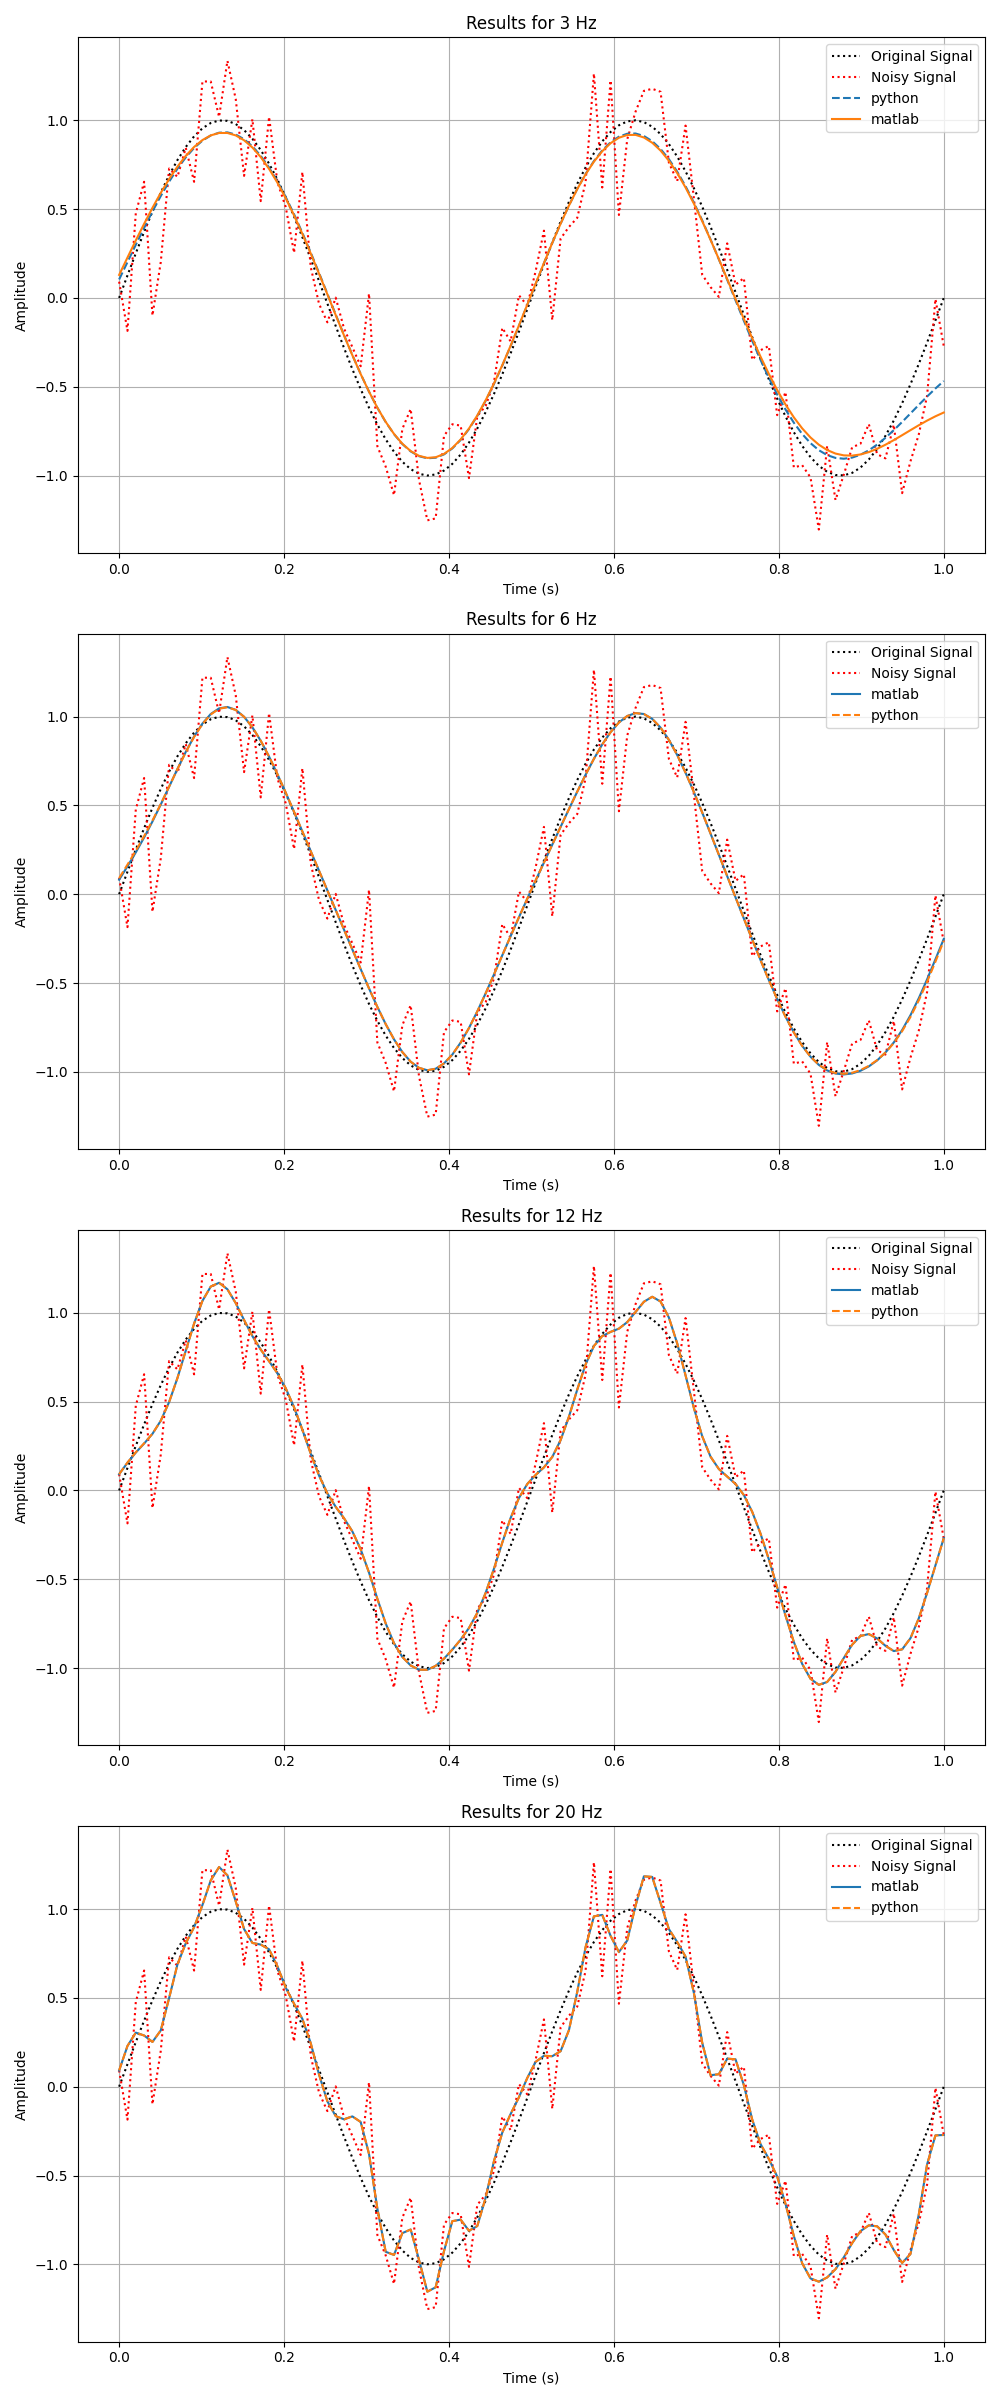
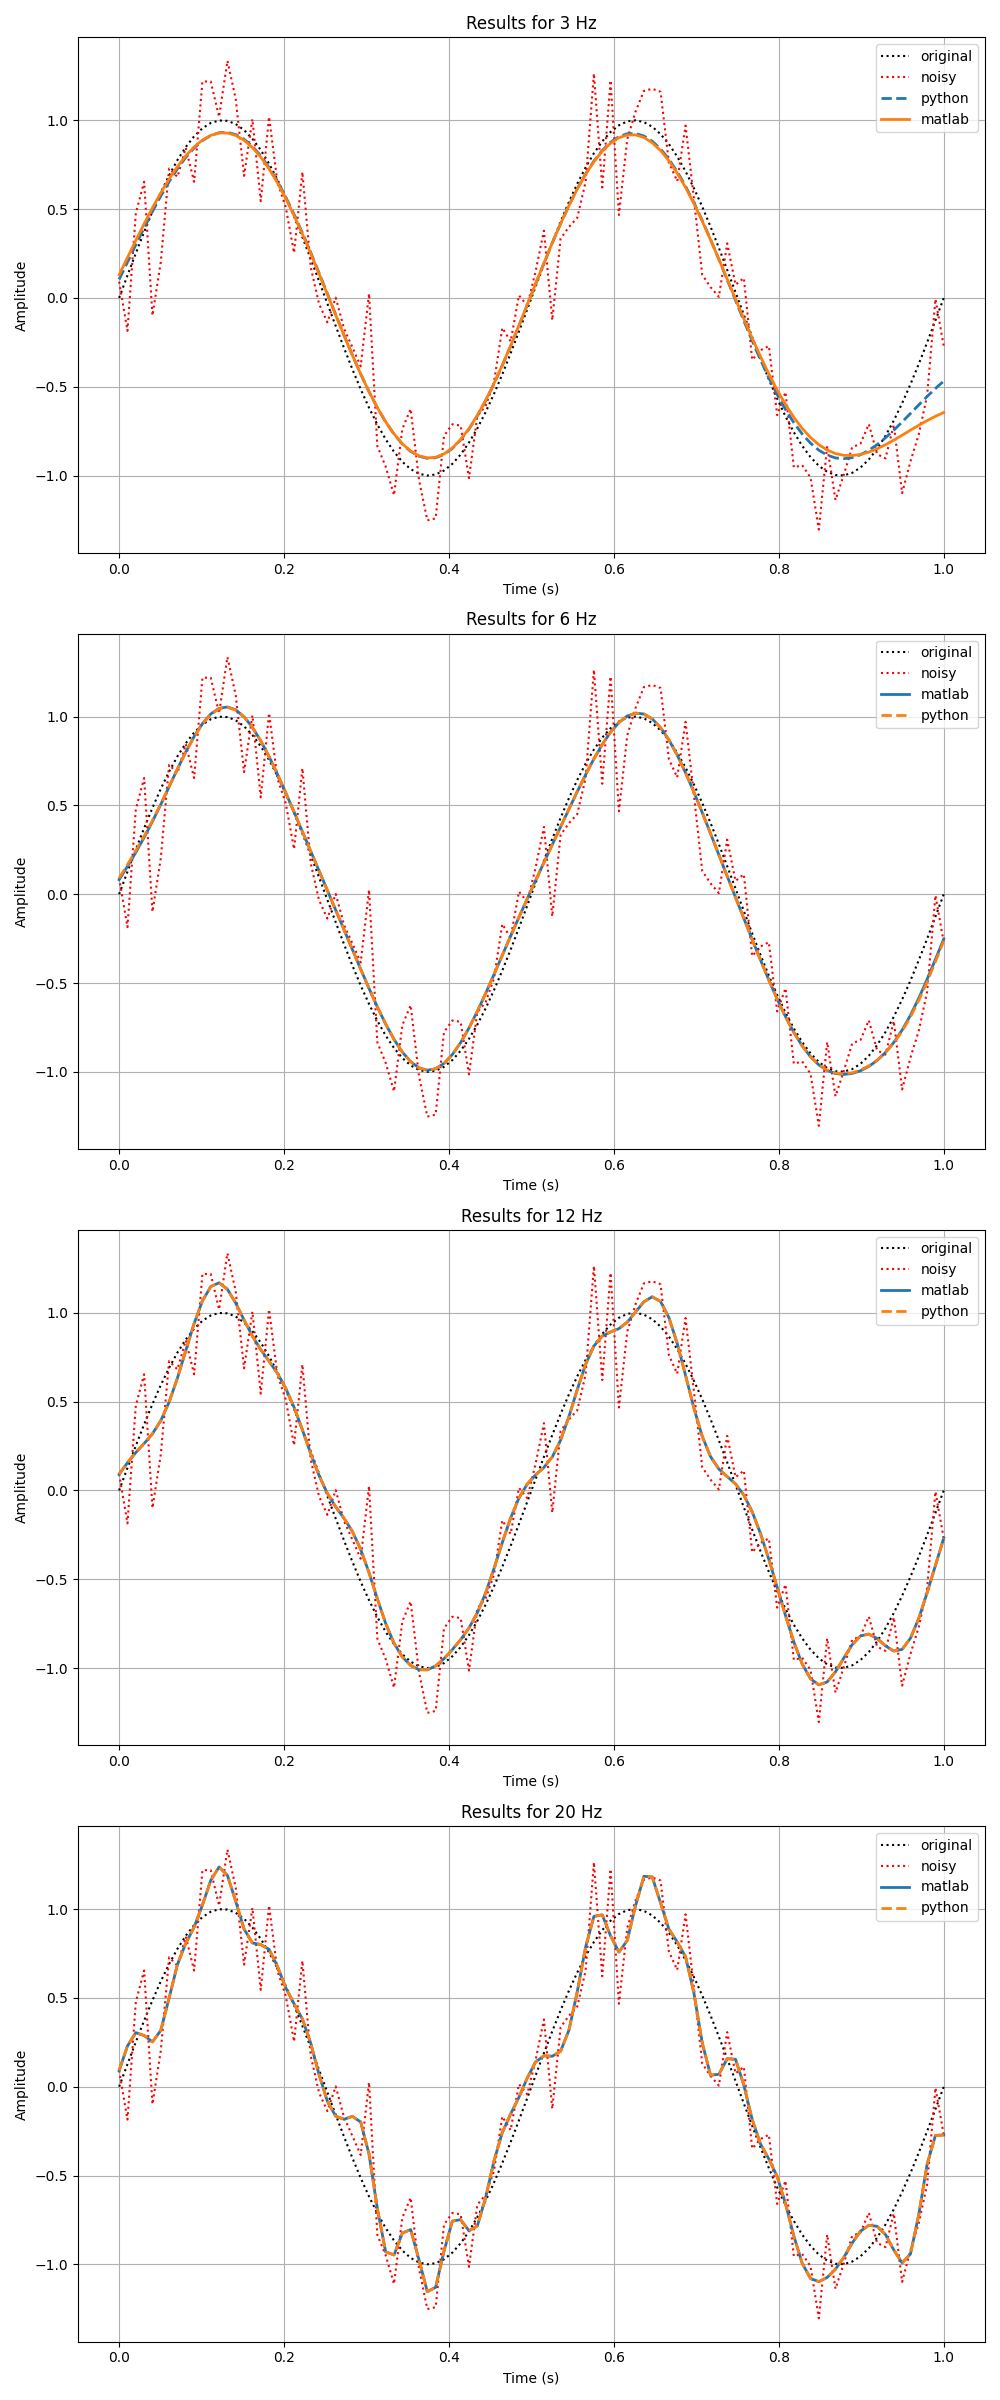
Update plotting

diff --git a/pythonLowPass/plot.py b/pythonLowPass/plot.py
@@ -76,8 +76,8 @@ for i, (frequency, result_files) in enumerate(sorted_results):
     ax.set_ylabel("Amplitude")
 
     # Plot the original (no noise) and noisy signal
-    ax.plot(t, signal_no_noise, label="Original Signal", color="black", linestyle=":")
-    ax.plot(t, signal_with_noise, label="Noisy Signal", color="red", linestyle=":")
+    ax.plot(t, signal_no_noise, label="original", color="black", linestyle=":")
+    ax.plot(t, signal_with_noise, label="noisy", color="red", linestyle=":")
 
     # Plot each modality (e.g., MATLAB, Python, others) for the current frequency
     for filename, t, signal in result_files:
@@ -87,7 +87,7 @@ for i, (frequency, result_files) in enumerate(sorted_results):
         # Choose line style based on the file prefix
         line_style = line_styles.get(label, "-")  # Default to solid line if not found
 
-        ax.plot(t, signal, label=label, linestyle=line_style)
+        ax.plot(t, signal, label=label, linestyle=line_style, linewidth=2)
 
     ax.legend()
     ax.grid()
